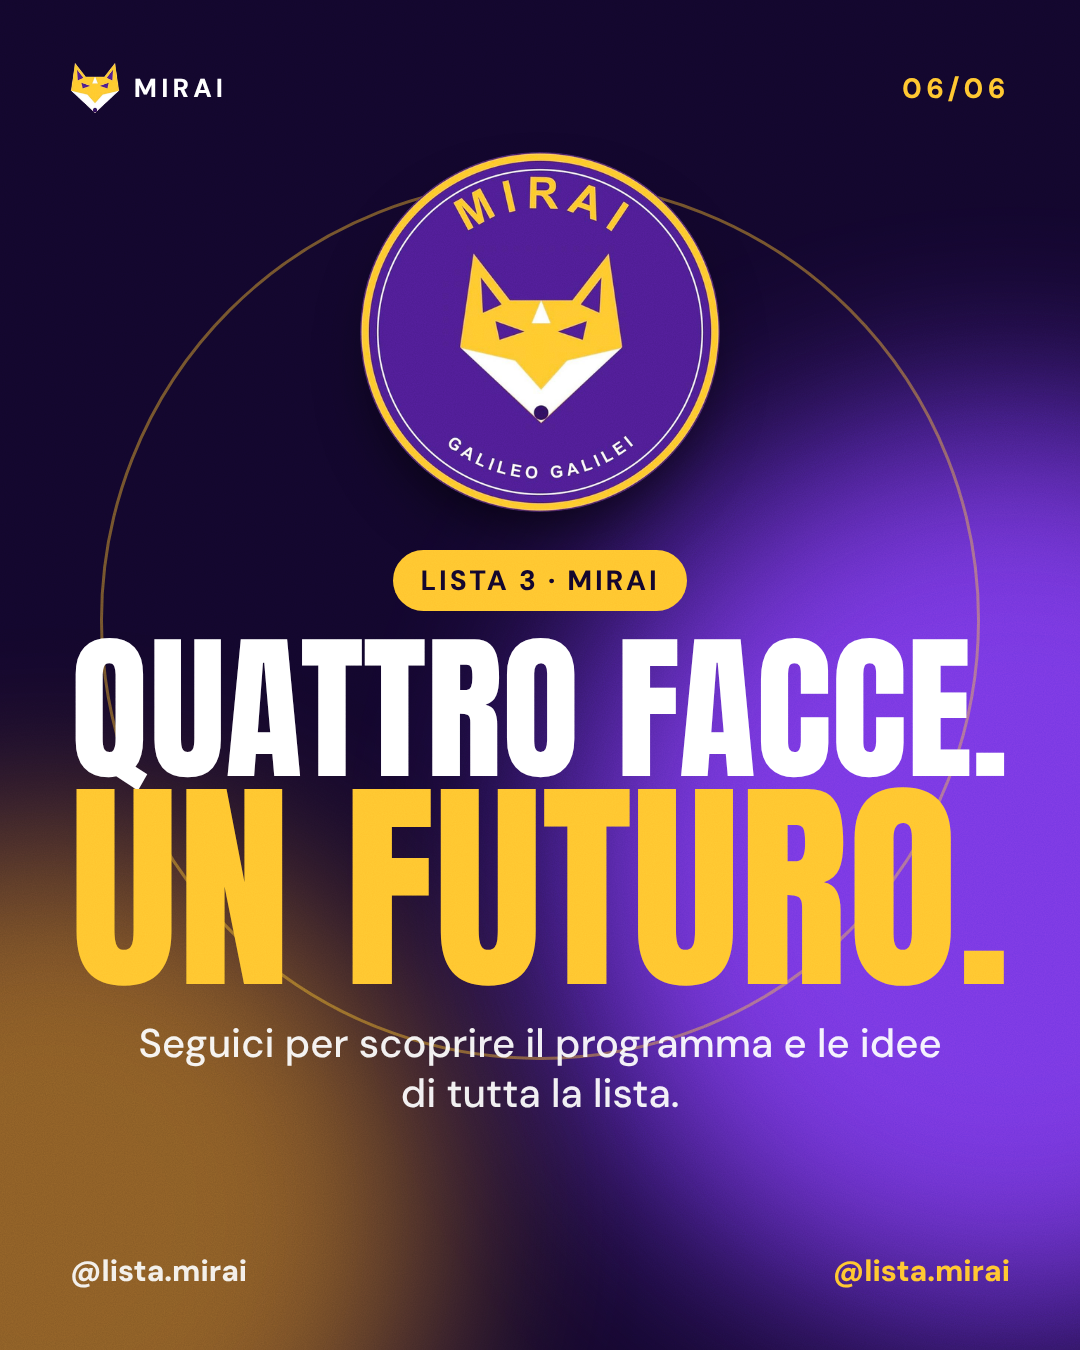
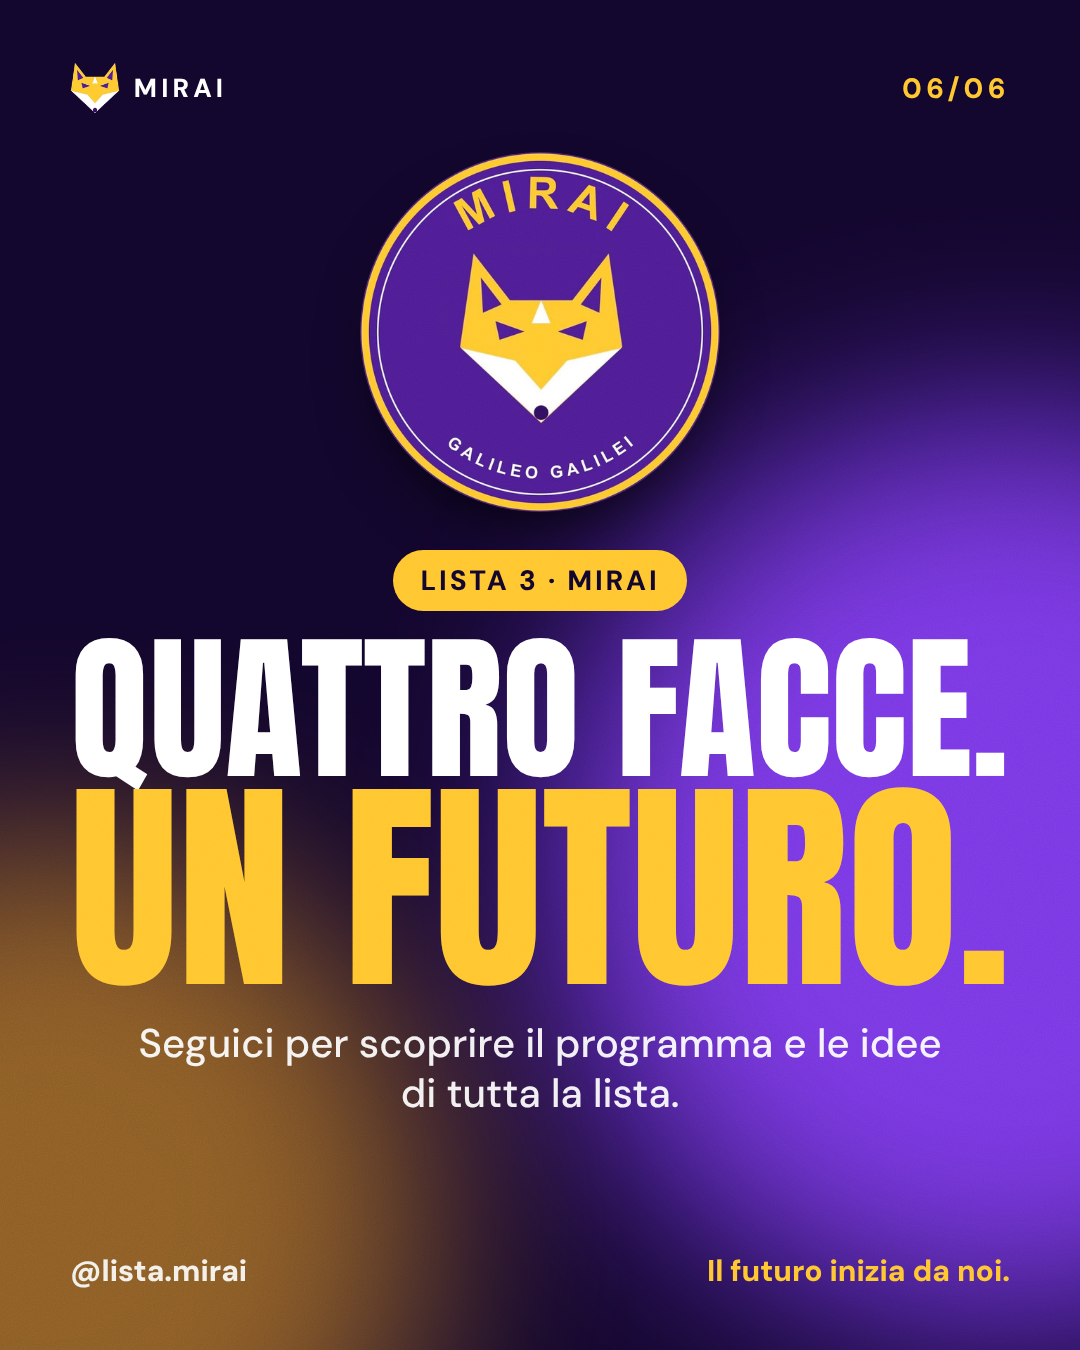
Candidati: via il cerchio sottile, handle senza doppioni

diff --git a/social/campagna/campagna.html b/social/campagna/campagna.html
@@ -61,11 +61,11 @@ body{background:#000;font-family:"DM Sans",sans-serif}
  <div style="position:absolute;left:70px;right:70px;bottom:140px;z-index:8"><span class="chip g">Candidata · Classe 2T</span>
   <div class="A" style="margin-top:14px"><div class="w" data-box="940" data-max="150">Annalaura</div><div class="g" data-box="940" data-max="200">Giongo</div></div></div>
  <div class="handle"><span>@annalauragiongo_</span><b>Lista 3 · Mirai</b></div></section>
-<section class="c p v0" id="c5"><div class="blob b1"></div><div class="blob b2"></div><div class="brand"><img src="../../assets/fox-96.png" alt="">Mirai</div><div class="n">06/06</div><div class="ring" style="width:880px;height:880px;left:100px;top:180px"></div>
+<section class="c p v0" id="c5"><div class="blob b1"></div><div class="blob b2"></div><div class="brand"><img src="../../assets/fox-96.png" alt="">Mirai</div><div class="n">06/06</div>
  <div class="ctr" style="top:150px;bottom:230px"><img src="../../assets/logo.png" alt="" style="width:360px;height:360px;border-radius:50%;box-shadow:0 30px 60px -20px rgba(0,0,0,.7)">
   <span class="kick" style="margin-top:14px">Lista 3 · Mirai</span>
   <div class="A" style="display:flex;flex-direction:column;align-items:center"><div class="w" data-box="940" data-max="170">Quattro facce.</div><div class="g" data-box="940" data-max="230">Un futuro.</div></div>
-  <div class="desc" style="font-size:40px;max-width:820px">Seguici per scoprire il programma e le idee di tutta la lista.</div></div><div class="handle"><span>@lista.mirai</span><b>@lista.mirai</b></div></section>
+  <div class="desc" style="font-size:40px;max-width:820px">Seguici per scoprire il programma e le idee di tutta la lista.</div></div><div class="handle"><span>@lista.mirai</span><b>Il futuro inizia da noi.</b></div></section>
 <section class="c p v1" id="g0"><div class="blob b1"></div><div class="blob b2"></div><div class="brand"><img src="../../assets/fox-96.png" alt="">Mirai</div><div class="n">01/07</div>
  <div style="position:absolute;left:70px;right:70px;top:170px;z-index:8"><span class="kick">Rappresentanza d’istituto</span>
   <div class="A" style="margin-top:30px"><div class="g" data-box="940" data-max="420">16 idee.</div><div class="w" data-box="940" data-max="300">4 aree.</div><div class="o" data-box="940" data-max="250">Il programma.</div></div></div>
@@ -78,7 +78,7 @@ body{background:#000;font-family:"DM Sans",sans-serif}
 <section class="c p v2" id="g6"><div class="blob b1"></div><div class="blob b2"></div><div class="brand"><img src="../../assets/fox-96.png" alt="">Mirai</div><div class="n">07/07</div>
  <div class="ctr" style="top:150px;bottom:230px"><span class="kick">Lista 3 · Mirai</span>
   <div class="A" style="display:flex;flex-direction:column;align-items:center"><div class="o" data-box="940" data-max="200">Meno slogan.</div><div class="w" data-box="940" data-max="260">Più cose</div><div class="g" data-box="940" data-max="330">fatte.</div></div>
-  <div class="desc" style="font-size:40px;max-width:820px">Salva il post e mandalo a chi vuole una scuola che cambia davvero.</div></div><div class="handle"><span>@lista.mirai</span><b>@lista.mirai</b></div></section>
+  <div class="desc" style="font-size:40px;max-width:820px">Salva il post e mandalo a chi vuole una scuola che cambia davvero.</div></div><div class="handle"><span>@lista.mirai</span><b>Il futuro inizia da noi.</b></div></section>
 <section class="c s v0" id="w0"><div class="blob b1"></div><div class="blob b2"></div><div class="brand"><img src="../../assets/fox-96.png" alt="">Mirai</div><div class="ctr" style="top:340px;bottom:430px;gap:26px"><span class="kick">Notato anche tu?</span>
  <div class="A" style="display:flex;flex-direction:column;align-items:center;line-height:.92"><div class="w" data-box="940" data-max="260">Due liste.</div><div class="g" data-box="940" data-max="300">Un solo</div><div class="o" data-box="940" data-max="360">vento.</div></div>
  <div class="sub" style="font-size:46px;max-width:820px;margin-top:10px">Originalità, questa sconosciuta.</div></div><div class="handle"><span>@lista.mirai</span><b>Il futuro inizia da noi.</b></div></section>

diff --git a/social/campagna/build.py b/social/campagna/build.py
@@ -34,11 +34,11 @@ def cand(id,n,t,v):
  <div class="handle"><span>@{t[4]}</span><b>Lista 3 · Mirai</b></div>''',v)
 H+=cand('c1','02',team[0],'v1')+cand('c2','03',team[1],'v0')+cand('c3','04',team[2],'v2')+cand('c4','05',team[3],'v1')
 # chiusura
-H+=sec('p','c5',BR+f'''<div class="n">06/06</div><div class="ring" style="width:880px;height:880px;left:100px;top:180px"></div>
+H+=sec('p','c5',BR+f'''<div class="n">06/06</div>
  <div class="ctr" style="top:150px;bottom:230px"><img src="../../assets/logo.png" alt="" style="width:360px;height:360px;border-radius:50%;box-shadow:0 30px 60px -20px rgba(0,0,0,.7)">
   <span class="kick" style="margin-top:14px">Lista 3 · Mirai</span>
   <div class="A" style="display:flex;flex-direction:column;align-items:center"><div class="w" data-box="940" data-max="170">Quattro facce.</div><div class="g" data-box="940" data-max="230">Un futuro.</div></div>
-  <div class="desc" style="font-size:40px;max-width:820px">Seguici per scoprire il programma e le idee di tutta la lista.</div></div>'''+HAND('@lista.mirai'),'v0')
+  <div class="desc" style="font-size:40px;max-width:820px">Seguici per scoprire il programma e le idee di tutta la lista.</div></div>'''+HAND(),'v0')
 # ---------- PROGRAMMA (post) ----------
 def prog(id,n,kick,title1,title2,items,cols,v):
     cards=''.join(f'<div class="card {c}"><b>{t}</b><span>{x}</span></div>' for (t,x),c in zip(items,cols))
@@ -55,7 +55,7 @@ H+=prog('g5','06','Area 4','Mirai','Social.',[('Gadget d’istituto','Felpe, mag
 H+=sec('p','g6',BR+'''<div class="n">07/07</div>
  <div class="ctr" style="top:150px;bottom:230px"><span class="kick">Lista 3 · Mirai</span>
   <div class="A" style="display:flex;flex-direction:column;align-items:center"><div class="o" data-box="940" data-max="200">Meno slogan.</div><div class="w" data-box="940" data-max="260">Più cose</div><div class="g" data-box="940" data-max="330">fatte.</div></div>
-  <div class="desc" style="font-size:40px;max-width:820px">Salva il post e mandalo a chi vuole una scuola che cambia davvero.</div></div>'''+HAND('@lista.mirai'),'v2')
+  <div class="desc" style="font-size:40px;max-width:820px">Salva il post e mandalo a chi vuole una scuola che cambia davvero.</div></div>'''+HAND(),'v2')
 # ---------- STORIE vento ----------
 S=lambda id,inner,v:sec('s',id,BR+inner+HAND(),v)
 H+=S('w0','''<div class="ctr" style="top:340px;bottom:430px;gap:26px"><span class="kick">Notato anche tu?</span>
